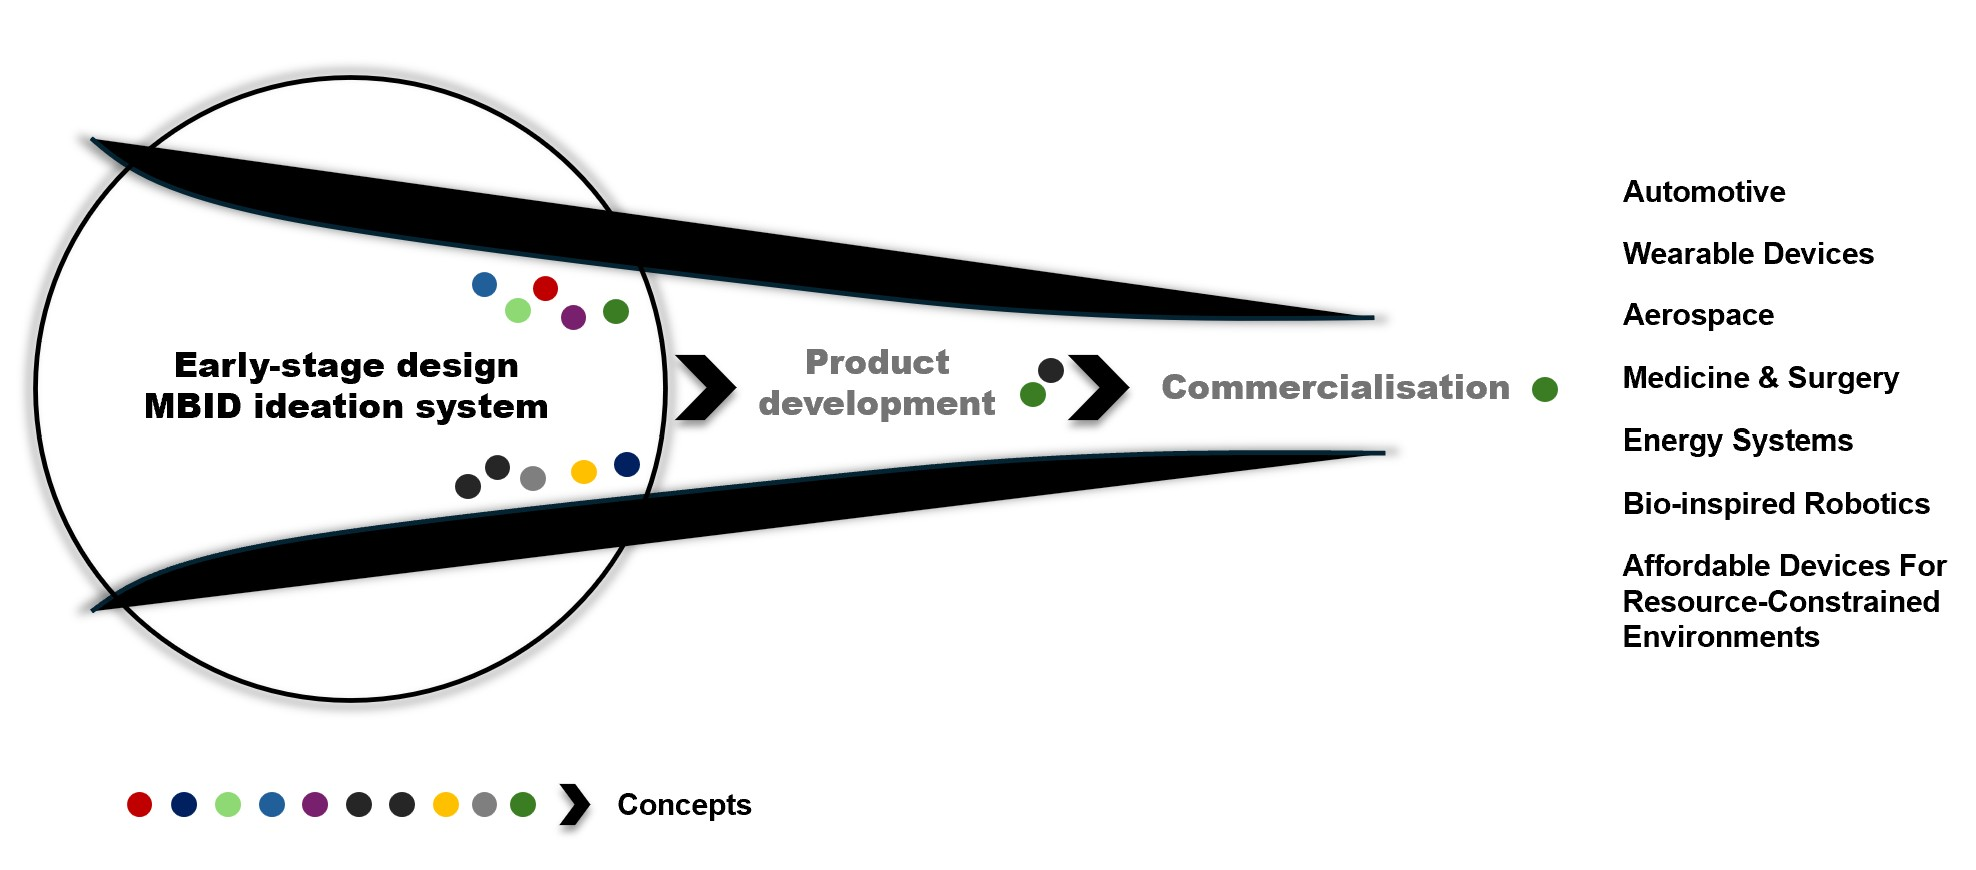
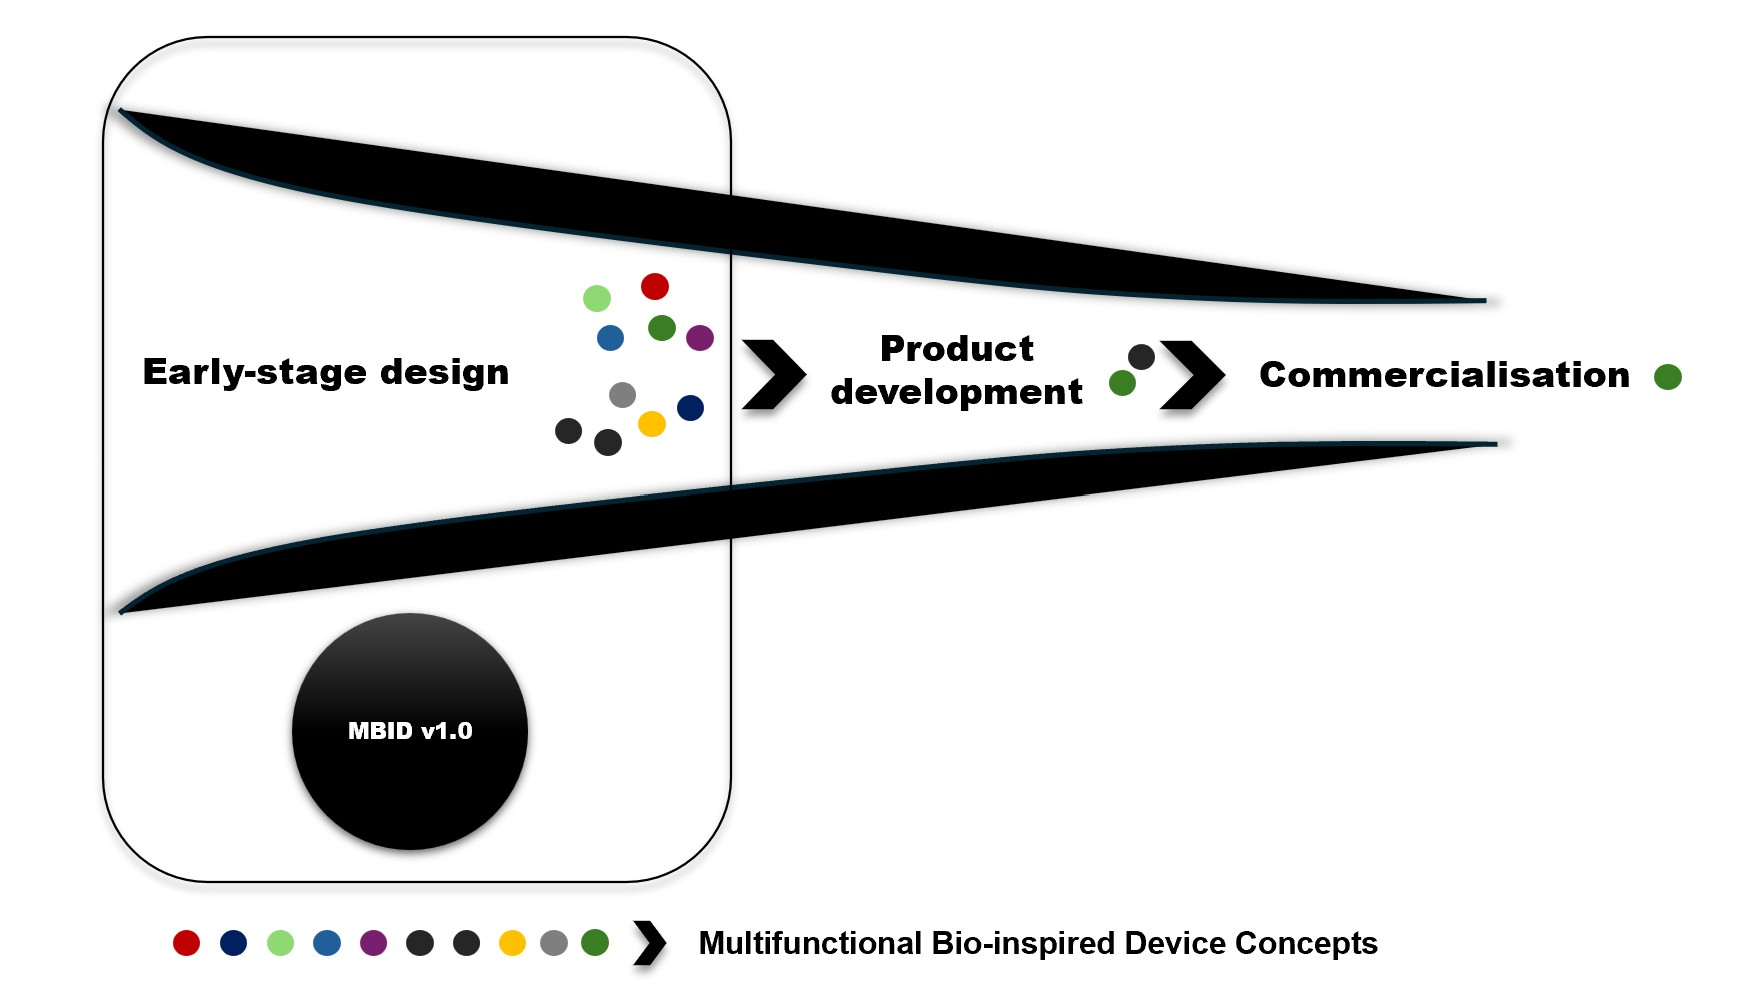
sixty seven commit

diff --git a/index.html b/index.html
@@ -3,7 +3,7 @@
 <head>
     <meta charset="UTF-8">
     <meta name="viewport" content="width=device-width, initial-scale=1.0">
-    <title>MBID ideation system</title>
+    <title>MBID ideation system v1.0</title>
     <link rel="stylesheet" href="main.css">
     <script src="https://d3js.org/d3.v7.min.js"></script> 
     <script src="d3.v7.js"></script> <!--Use it when offline-->
@@ -28,7 +28,7 @@
         <div class="row">
                 <div class="row-text">
                     <h1><b>MBID ideation system v1.0</b></h1>
-                    <h4><b>Multifunctional Bio-inspired Devices and Structures</b></h4>
+                    <h4><b>Multifunctional Bio-inspired Structures and Devices</b></h4>
                 </div>
             <img src="images/mbid1.jpg" width="35%" alt="MBID Concept Overview">
         </div>
@@ -66,8 +66,8 @@
             
     <div id="header">
         <div class="row">
-            <img src="images/applications.jpg" width ="40%" alt="Applications">    
-            <img src="images/early-stage1.jpg" width ="55%" alt="Applications Overview2">
+            <img src="images/early-stage1.jpg" width ="50%" alt="Applications Overview2">
+            <img src="images/applications.jpg" width ="50%" alt="Applications">    
             <!--make sure that the total width of pic 1 and pic 2 is 100% and should not cross 100%-->
         </div>
     </div>

diff --git a/pages/user-manual.html b/pages/user-manual.html
@@ -25,12 +25,12 @@
     
     <div id ="header">
         <h1><b>MBID ideation system v1.0</b></h1>
-        <h4><b>Multifunctional Bio-inspired Devices and Structures</b></h4>
+        <h4><b>Multifunctional Bio-inspired Structures and Devices</b></h4>
     </div>
 
     <div id="nav">
         <ul>
-            <li> <a href='../index.html'><b>Home</b></a></li>
+            <li> <a href='../index.html'><b>About</b></a></li>
             <li> <a href="../pages/method.html"><b>DID and xDID methodology</b></a></li>
             <li> <a href="../pages/surfaces.html"><b>Surfaces Domain</b></a></li>
             <li> <a href="../pages/cellular.html"><b>Cellular Structures Domain</b></a></li>

diff --git a/pages/shapes.html b/pages/shapes.html
@@ -25,12 +25,12 @@
 
     <div id ="header">
         <h1><b>MBID ideation system v1.0</b></h1>
-        <h4><b>Multifunctional Bio-inspired Devices and Structures</b></h4>
+        <h4><b>Multifunctional Bio-inspired Structures and Devices</b></h4>
     </div>
 
     <div id="nav">
         <ul>
-            <li> <a href='../index.html'><b>Home</b></a></li>
+            <li> <a href='../index.html'><b>About</b></a></li>
             <li> <a href="../pages/method.html"><b>DID and xDID methodology</b></a></li>
             <li> <a href="../pages/surfaces.html"><b>Surfaces Domain</b></a></li>
             <li> <a href="../pages/cellular.html"><b>Cellular Structures Domain</b></a></li>

diff --git a/pages/cross-sections.html b/pages/cross-sections.html
@@ -25,11 +25,11 @@
 
     <div id ="header">
         <h1><b>MBID ideation system v1.0</b></h1>
-        <h4><b>Multifunctional Bio-inspired Devices and Structures</b></h4>
+        <h4><b>Multifunctional Bio-inspired Structures and Devices</b></h4>
     </div>
     <div id="nav">
         <ul>
-            <li> <a href='../index.html'><b>Home</b></a></li>
+            <li> <a href='../index.html'><b>About</b></a></li>
             <li> <a href="../pages/method.html"><b>DID and xDID methodology</b></a></li>
             <li> <a href="../pages/surfaces.html"><b>Surfaces Domain</b></a></li>
             <li> <a href="../pages/cellular.html"><b>Cellular Structures Domain</b></a></li>

diff --git a/pages/method.html b/pages/method.html
@@ -24,12 +24,12 @@
 <body>
     <div id ="header">
         <h1><b>MBID ideation system v1.0</b></h1>
-        <h4><b>Multifunctional Bio-inspired Devices and Structures</b></h4>
+        <h4><b>Multifunctional Bio-inspired Structures and Devices</b></h4>
     </div>
 
      <div id="nav">
         <ul>
-            <li> <a href='../index.html'><b>Home</b></a></li>
+            <li> <a href='../index.html'><b>About</b></a></li>
             <li> <a href="../pages/surfaces.html"><b>Surfaces Domain</b></a></li>
             <li> <a href="../pages/cellular.html"><b>Cellular Structures Domain</b></a></li>
             <li> <a href="../pages/shapes.html"><b>Shapes Domain</b></a></li>

diff --git a/pages/surfaces.html b/pages/surfaces.html
@@ -25,12 +25,12 @@
 
     <div id ="header">
         <h1><b>MBID ideation system v1.0</b></h1>
-        <h4><b>Multifunctional Bio-inspired Devices and Structures</b></h4>
+        <h4><b>Multifunctional Bio-inspired Structures and Devices</b></h4>
     </div>
 
     <div id="nav">
         <ul>
-            <li> <a href='../index.html'><b>Home</b></a></li>
+            <li> <a href='../index.html'><b>About</b></a></li>
             <li> <a href="../pages/method.html"><b>DID and xDID methodology</b></a></li>
             <li> <a href="../pages/cellular.html"><b>Cellular Structures Domain</b></a></li>
             <li> <a href="../pages/shapes.html"><b>Shapes Domain</b></a></li>

diff --git a/pages/cellular.html b/pages/cellular.html
@@ -26,11 +26,11 @@
 
     <div id ="header">
         <h1><b>MBID ideation system v1.0</b></h1>
-        <h4><b>Multifunctional Bio-inspired Devices and Structures</b></h4>
+        <h4><b>Multifunctional Bio-inspired Structures and Devices</b></h4>
     </div>
     <div id="nav">
         <ul>
-            <li> <a href='../index.html'><b>Home</b></a></li>
+            <li> <a href='../index.html'><b>About</b></a></li>
             <li> <a href="../pages/method.html"><b>DID and xDID methodology</b></a></li>
             <li> <a href="../pages/surfaces.html"><b>Surfaces Domain</b></a></li>
             <li> <a href="../pages/shapes.html"><b>Shapes Domain</b></a></li>
